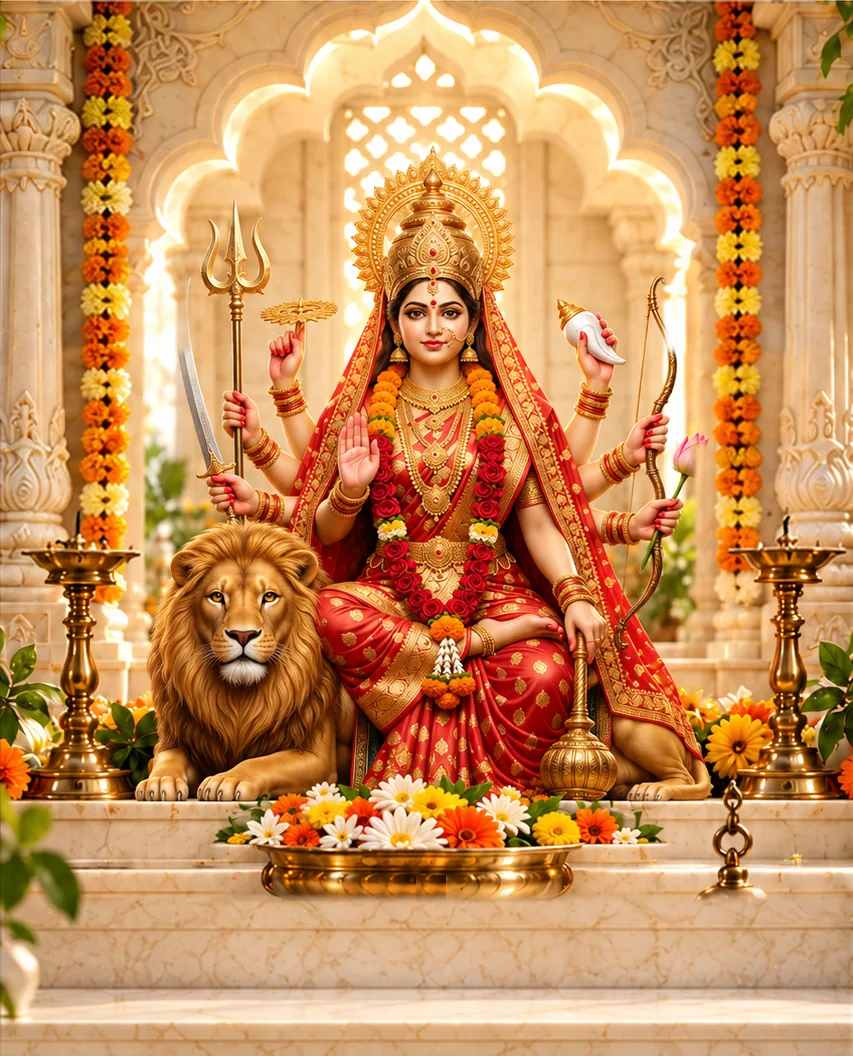
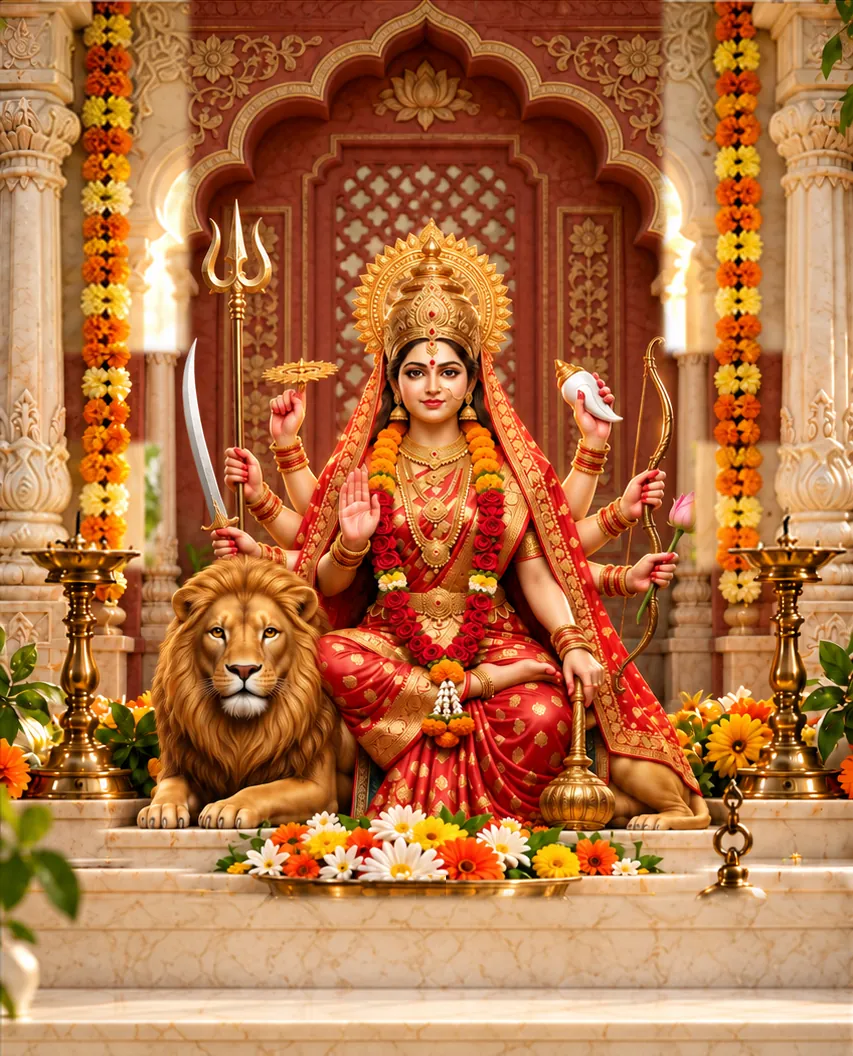
Mandir artwork v2: 12 new shrine scenes and Shiv/Hanuman by weekday
Claude-Session: https://claude.ai/code/session_0132mMJLCHXymd6QY37f7UyY

diff --git a/src/content/deities.ts b/src/content/deities.ts
@@ -13,7 +13,7 @@ export interface Deity {
   /** One cut-out per weekday (0 = Sunday), so the darshan changes every day; falls back to cutout. */
   week?: string[]
   /** Approved shrine-only Mandir scene for this form: deity and temple only, without the offerings, lamps' flames or bells the app draws on top. */
-  shrineScene?: { base: string }
+  shrineScene?: { base: string; week?: string[] }
   /** Sideways nudge of the cut-out, in % of its width, so the deity's face sits on the halo's centre line. */
   dx?: number
   /** Head and shoulders from the cut-out, for the round picker */
@@ -33,8 +33,8 @@ export const SHIVLING = { shrineScene: { base: '/art/redesign/mandir-scenes/shiv
 
 export const DEITIES: Deity[] = [
   { id: 'ganesh', shrineScene: { base: '/art/redesign/mandir-scenes/ganesh.webp' }, name_hi: 'गणेश जी', name_en: 'Ganesh ji', photo: '/art/deity/ganesh-cut.webp', thumb: '/art/deity/ganesh-face.webp', cutout: '/art/deity/ganesh-cut.webp', week: [1, 2, 3, 4, 5, 6, 7].map((n) => `/art/deity/ganesh/${n}.webp`), face: '/art/deity/ganesh-face.webp', home: '/art/deity/ganesh-home.webp', card: '/art/photo/fv3EpXA6jCA.jpg', aarti: 'ganesh', mantra: 'ॐ गं गणपतये नमः', days: [3] },
-  { id: 'shiv', shrineScene: { base: '/art/redesign/mandir-scenes/shiv.webp' }, name_hi: 'शिव जी', name_en: 'Shiv ji', photo: '/art/deity/shiv-cut.webp', thumb: '/art/deity/shiv-face.webp', cutout: '/art/deity/shiv-cut.webp', week: [1, 2, 3, 4, 5, 6, 7].map((n) => `/art/deity/shiv/${n}.webp`), face: '/art/deity/shiv-face.webp', home: '/art/deity/shiv-home.webp', card: '/art/photo/JxJ15qeVisk.jpg', aarti: 'shiv', mantra: 'ॐ नमः शिवाय', days: [1] },
-  { id: 'hanuman', shrineScene: { base: '/art/redesign/mandir-scenes/hanuman.webp' }, name_hi: 'हनुमान जी', name_en: 'Hanuman ji', photo: '/art/deity/hanuman-cut.webp', thumb: '/art/deity/hanuman-face.webp', cutout: '/art/deity/hanuman-cut.webp', week: [1, 2, 3, 4, 5, 6, 7].map((n) => `/art/deity/hanuman/${n}.webp`), face: '/art/deity/hanuman-face.webp', home: '/art/deity/hanuman-home.webp', card: '/art/photo/1qvWMJv_NUU.jpg', aarti: 'hanuman', mantra: 'ॐ हं हनुमते नमः', days: [2, 6] },
+  { id: 'shiv', shrineScene: { base: '/art/redesign/mandir-scenes/shiv.webp', week: [0, 1, 2, 3, 4, 5, 6].map((n) => `/art/redesign/mandir-scenes/shiv-${n}.webp`) }, name_hi: 'शिव जी', name_en: 'Shiv ji', photo: '/art/deity/shiv-cut.webp', thumb: '/art/deity/shiv-face.webp', cutout: '/art/deity/shiv-cut.webp', week: [1, 2, 3, 4, 5, 6, 7].map((n) => `/art/deity/shiv/${n}.webp`), face: '/art/deity/shiv-face.webp', home: '/art/deity/shiv-home.webp', card: '/art/photo/JxJ15qeVisk.jpg', aarti: 'shiv', mantra: 'ॐ नमः शिवाय', days: [1] },
+  { id: 'hanuman', shrineScene: { base: '/art/redesign/mandir-scenes/hanuman.webp', week: [0, 1, 2, 3, 4, 5, 6].map((n) => `/art/redesign/mandir-scenes/hanuman-${n}.webp`) }, name_hi: 'हनुमान जी', name_en: 'Hanuman ji', photo: '/art/deity/hanuman-cut.webp', thumb: '/art/deity/hanuman-face.webp', cutout: '/art/deity/hanuman-cut.webp', week: [1, 2, 3, 4, 5, 6, 7].map((n) => `/art/deity/hanuman/${n}.webp`), face: '/art/deity/hanuman-face.webp', home: '/art/deity/hanuman-home.webp', card: '/art/photo/1qvWMJv_NUU.jpg', aarti: 'hanuman', mantra: 'ॐ हं हनुमते नमः', days: [2, 6] },
   { id: 'vishnu', shrineScene: { base: '/art/redesign/mandir-scenes/vishnu.webp' }, name_hi: 'विष्णु जी', name_en: 'Vishnu ji', photo: '/art/deity/vishnu-cut.webp', thumb: '/art/deity/vishnu-face.webp', cutout: '/art/deity/vishnu-cut.webp', week: [1, 2, 3, 4, 5, 6, 7].map((n) => `/art/deity/vishnu/${n}.webp`), face: '/art/deity/vishnu-face.webp', home: '/art/deity/vishnu-home.webp', card: '/art/photo/99DGEk5yHqg.jpg', aarti: 'jagdish', mantra: 'ॐ नमो भगवते वासुदेवाय', days: [4] },
   { id: 'lakshmi', shrineScene: { base: '/art/redesign/mandir-scenes/lakshmi.webp' }, name_hi: 'लक्ष्मी माँ', name_en: 'Lakshmi Maa', photo: '/art/deity/lakshmi-cut.webp', thumb: '/art/deity/lakshmi-face.webp', cutout: '/art/deity/lakshmi-cut.webp', week: [1, 2, 3, 4, 5, 6, 7].map((n) => `/art/deity/lakshmi/${n}.webp`), face: '/art/deity/lakshmi-face.webp', home: '/art/deity/lakshmi-home.webp', card: '/art/lakshmi-1896.jpg', aarti: 'lakshmi', mantra: 'ॐ श्रीं महालक्ष्म्यै नमः', days: [5] },
   { id: 'durga', shrineScene: { base: '/art/redesign/mandir-scenes/durga.webp' }, name_hi: 'दुर्गा माँ', name_en: 'Durga Maa', photo: '/art/deity/durga-cut.webp', thumb: '/art/deity/durga-face.webp', cutout: '/art/deity/durga-cut.webp', face: '/art/deity/durga-face.webp', home: '/art/deity/durga-home.webp', card: '/art/photo/vruHKfa-Fi0.jpg', aarti: 'ambe', mantra: 'ॐ दुं दुर्गायै नमः', days: [0] },

diff --git a/src/features/mandir/MandirView.tsx b/src/features/mandir/MandirView.tsx
@@ -88,7 +88,7 @@ export function MandirView({ initial, openAarti, openPath }: { openAarti?: (id: 
   const box = useCutBox(picture)
   const here = (offered_.day === today ? offered_.d : {})[deity.id] ?? {}
   const lit = !!here.lit
-  const scenePhoto = scene?.base ?? '/art/redesign/mandir-offerings-v2/empty.webp'
+  const scenePhoto = (scene && 'week' in scene ? scene.week?.[weekday] : undefined) ?? scene?.base ?? '/art/redesign/mandir-offerings-v2/empty.webp'
   const igniting = ignition === `${today}/${deity.id}`
   const mark = (patch: { lit?: boolean; flowers?: boolean }) => setOffered({ day: today, d: { ...(offered_.day === today ? offered_.d : {}), [deity.id]: { ...here, ...patch } } })
   const hinted = (k: 'diya' | 'bell' | 'bowl') => {
@@ -182,7 +182,7 @@ export function MandirView({ initial, openAarti, openPath }: { openAarti?: (id: 
     <main className="tab-page mandir-page">
       <header className="mandir-heading">
         <h1>{t('r_myMandir')}</h1>
-        <label className="mandir-current-deity"><span className="sr-only">{t('chooseDeity')}</span>{deity.id === 'shiv' ? <svg width="20" height="26" viewBox="0 0 24 30" fill="none" stroke="currentColor" strokeWidth="2" strokeLinecap="round" aria-hidden="true"><path d="M12 2v26M5 4v6a7 7 0 0 0 14 0V4M3 5l2-3 2 3m10 0 2-3 2 3M10 5l2-3 2 3" /></svg> : <img src={deity.face ?? deity.thumb} alt="" />}<select value={deity.id} onChange={(e) => pick(e.target.value)}>{order.map((d) => <option key={d.id} value={d.id}>{hi ? d.name_hi : d.name_en}{d.id === todayId ? ` · ${t('cal_today')}` : ''}</option>)}</select><span aria-hidden="true">⌄</span></label>
+        <label className="mandir-current-deity"><span className="sr-only">{t('chooseDeity')}</span>{deity.id === 'shiv' ? <svg width="20" height="26" viewBox="0 0 24 30" fill="none" stroke="currentColor" strokeWidth="2" strokeLinecap="round" aria-hidden="true"><path d="M12 2v26M5 4v6a7 7 0 0 0 14 0V4M3 5l2-3 2 3m10 0 2-3 2 3M10 5l2-3 2 3" /></svg> : <img src={deity.face ?? deity.thumb} alt="" />}<select value={deity.id} onChange={(e) => pick(e.target.value)}>{order.map((o) => { const d = o.id === deity.id ? deity : o; return <option key={d.id} value={d.id}>{hi ? d.name_hi : d.name_en}{d.id === todayId ? ` · ${t('cal_today')}` : ''}</option> })}</select><span aria-hidden="true">⌄</span></label>
       </header>
       <div ref={stage} className={`mandir-shrine shrine ${lit ? 'is-lit' : ''}`} style={{ '--h1': h1, '--h2': h2, '--hr': hr, '--flower-rise': `${sz.h * .63}px` } as CSSProperties}
         onTouchStart={(e) => { swipeFrom.current = [e.touches[0].clientX, e.touches[0].clientY] }}

diff --git a/docs/redesign/mandir-artwork-v2/build-scenes.py b/docs/redesign/mandir-artwork-v2/build-scenes.py
@@ -1,0 +1,52 @@
+import cv2, numpy as np, sys
+R='/home/user/sanatan-art/public/art/redesign/'
+M=sys.argv[3]+'/'
+OUT=sys.argv[1]; SUF=''
+W,H=853,1056; Y0=276
+plate=cv2.imread(R+'mandir-offerings-v2/empty.webp')
+plate=cv2.resize(plate,(W,H),interpolation=cv2.INTER_CUBIC)
+s=W/504.0
+# the empty shrine has a tiny leftover candle glint on the ledge; remove it
+_b=[int(v*s) for v in (236,513,272,548)]
+_sub=plate[_b[1]:_b[3],_b[0]:_b[2]]
+_hsv=cv2.cvtColor(_sub,cv2.COLOR_BGR2HSV)
+_m=cv2.dilate(((_hsv[...,2]>235)&(_hsv[...,1]<90)).astype(np.uint8)*255,np.ones((11,11),np.uint8))
+plate[_b[1]:_b[3],_b[0]:_b[2]]=cv2.inpaint(_sub,_m,7,cv2.INPAINT_TELEA)
+def rect_mask(boxes,feather):
+    m=np.zeros((H,W),np.float32)
+    for x0,y0,x1,y1 in boxes:
+        m[int(y0*s):int(y1*s),int(x0*s):int(x1*s)]=1
+    k=int(feather*s)|1
+    return cv2.GaussianBlur(m,(k*2+1,k*2+1),k/2.5)
+# areas replaced with the empty shrine: hanging bells + chains, lamp flames, whole lower ledge
+CUT={'ram':531,'durga':530}
+BASE=[(22,0,112,208),(392,0,482,208),(8,262,95,336),(410,262,500,336)]
+masks={}
+def mask_for(n):
+    cut=CUT.get(n.split('-')[0],520)
+    if cut not in masks:
+        masks[cut]=rect_mask(BASE+[(0,cut,504,624)],9 if cut==520 else 5)[...,None]
+    return masks[cut]
+def kill_flame(c,box,v=205,sat=110):
+    x0,y0,x1,y1=[int(v*s) for v in box]
+    sub=c[y0:y1,x0:x1].astype(np.uint8)
+    hsv=cv2.cvtColor(sub,cv2.COLOR_BGR2HSV)
+    m=((hsv[...,2]>v)&(hsv[...,1]<sat)).astype(np.uint8)*255
+    m=cv2.dilate(m,np.ones((9,9),np.uint8))
+    out=cv2.inpaint(sub,m,5,cv2.INPAINT_TELEA)
+    c[y0:y1,x0:x1]=out
+    return c
+names=sys.argv[2].split(',')
+for n in names:
+    g=cv2.imread(M+n+'.png'); base=n.split('-')[0]
+    c=g[Y0:Y0+H,:W].astype(np.float32)
+    if base=='ram': c=kill_flame(c.astype(np.uint8).copy(),(236,505,274,531)).astype(np.float32)
+    else:
+        y0,y1,x0,x1=[int(v*s) for v in ((517 if base=='durga' else 506),(536 if base=='durga' else 530),246,264)]
+        w=x1-x0+6
+        strip=c[y0:y1,x0-w:x1-w].copy()
+        a=np.ones((y1-y0,x1-x0,1),np.float32); a=cv2.GaussianBlur(a,(1,1),0)
+        c[y0:y1,x0:x1]=strip
+    mask=mask_for(n)
+    o=c*(1-mask)+plate.astype(np.float32)*mask
+    cv2.imwrite(OUT+'/'+n+'.png',np.clip(o,0,255).astype(np.uint8))

diff --git a/HANDOVER.md b/HANDOVER.md
@@ -162,3 +162,6 @@ Layout 1 also supports direct taps on the large flower thali near the deity and 
 - The daily opener (DailyOpener, `dailyOpener.ts`) was REMOVED on Ayush's word ("mandir only, no other opener"). Cold launch still opens the Mandir (doors once a day). The `dailyOpenerDay` storage key is no longer written. Wallpaper save stays off.
 - Hero pictures: `public/art/home/hero.webp` is the original Option 4 Shiva; `hero-<id>.webp` for the other forms are crops of the approved Mandir shrine scenes (same ivory frame). Missing: no Shiv weekday variants, no new art was generated.
 - Removed: QuickHome, MonthCard (home calendar tile). New: `useSuprabhat` hook shared by the card page and Aaj; `nextEkadashi` in `lib/panchang/month.ts`.
+
+## Mandir artwork v2 (31 Oct 2026, NOT live)
+- New scenes for all 12 forms; Shiv ji and Hanuman ji change by weekday (Sunday to Saturday). Other ten are static until their weekday sets exist. See `docs/redesign/mandir-artwork-v2/README.md`.

diff --git a/docs/redesign/mandir-artwork-v2/README.md b/docs/redesign/mandir-artwork-v2/README.md
@@ -1,0 +1,5 @@
+# Mandir artwork v2 (Codex handoff of 31 Oct 2026)
+- 12 permanent shrine settings, plus seven weekday scenes each for Shiv ji (baghambar v2) and Hanuman ji (plain-dhoti v2). The other ten forms have one static scene; their weekday variants have not been made.
+- Scenes are cut from the handoff's full-screen sources with `build-scenes.py` (crop y=276, 853x1056; baked bells, flames and the lower ledge are replaced by the empty shrine plate `mandir-offerings-v2/empty.webp`). Usage: `python3 build-scenes.py OUT name1,name2 SOURCE_DIR`.
+- Files: `public/art/redesign/mandir-scenes/<id>.webp` and `shiv-0..6.webp`, `hanuman-0..6.webp` (0 = Sunday, India day clock). `Deity.shrineScene.week` holds the seven; `MandirView` picks `week[weekday]` else `base`.
+- Shiv/Hanuman `<id>.webp` fallback = the Sunday scene. Picker portraits already equal the handoff's (unchanged). No storage keys changed.
